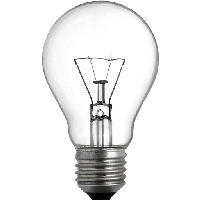
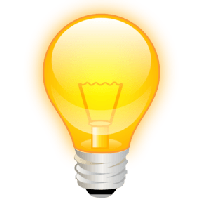
Add endpoint to change states from the dashboard

diff --git a/momomo-worker-app/src/main/resources/templates/index.html b/momomo-worker-app/src/main/resources/templates/index.html
@@ -46,14 +46,16 @@
         }
     </style>
     <script>
-        function toggleBulb(id, button) {
-            fetch(`/bulbs/${id}/toggle`, { method: "POST" })
+        function toggleBulb(button) {
+            const id = button.getAttribute("data-id");
+            const isOn = button.getAttribute("data-on") === "true";
+            const newState = !isOn;
+
+            fetch(`/bulbs/${id}/toggle?state=${newState}`, { method: "POST" })
                 .then(response => response.text())
                 .then(status => {
-                    alert(status);
-                    const isOn = button.getAttribute("data-on") === "true";
-                    button.setAttribute("data-on", !isOn);
-                    button.querySelector("img").src = isOn ? "bulb_off.png" : "bulb_on.png";
+                    button.setAttribute("data-on", newState);
+                    button.querySelector("img").src = newState ? "/bulb_on.png" : "/bulb_off.png";
                 })
                 .catch(console.error);
         }
@@ -63,8 +65,9 @@
 <h1>Bulb Control</h1>
 <div class="button-container">
     <button th:each="bulb : ${bulbs}" class="bulb-button"
-            th:onclick="|toggleBulb(${bulb.id}, this)|"
-            data-on="false">
+            th:data-id="${bulb.id}"
+            th:data-on="false"
+            onclick="toggleBulb(this)">
         <img th:src="@{/bulb_off.png}" alt="Bulb Icon">
         <span th:text="${bulb.name}"></span>
     </button>

diff --git a/momomo-worker-app/src/main/kotlin/com/am/jarvis/DashboardController.kt b/momomo-worker-app/src/main/kotlin/com/am/jarvis/DashboardController.kt
@@ -1,13 +1,20 @@
 package com.am.jarvis
 
 import com.am.jarvis.core.api.DeviceProvider
+import com.am.jarvis.core.api.DeviceStateChanger
+import com.am.jarvis.core.model.DeviceState
+import org.springframework.http.ResponseEntity
 import org.springframework.stereotype.Controller
 import org.springframework.ui.Model
 import org.springframework.web.bind.annotation.GetMapping
+import org.springframework.web.bind.annotation.PathVariable
+import org.springframework.web.bind.annotation.PostMapping
+import org.springframework.web.bind.annotation.RequestParam
 
 @Controller
 class DashboardController(
-    val deviceProviders: List<DeviceProvider>
+    val deviceProviders: List<DeviceProvider>,
+    val deviceStateChanger: DeviceStateChanger
 ) {
 
     @GetMapping("/")
@@ -16,6 +23,12 @@ class DashboardController(
             .map { Bulb(it.id, it.name.primaryName) }
         model.addAttribute("bulbs", bulbs)
         return "index"
+    }
+
+    @PostMapping("/bulbs/{id}/toggle")
+    fun changeState(@PathVariable id: String, @RequestParam state: Boolean): ResponseEntity<String> {
+        deviceStateChanger.changeStates(listOf(DeviceState(id, state)))
+        return ResponseEntity.ok("OK")
     }
 
     data class Bulb(
